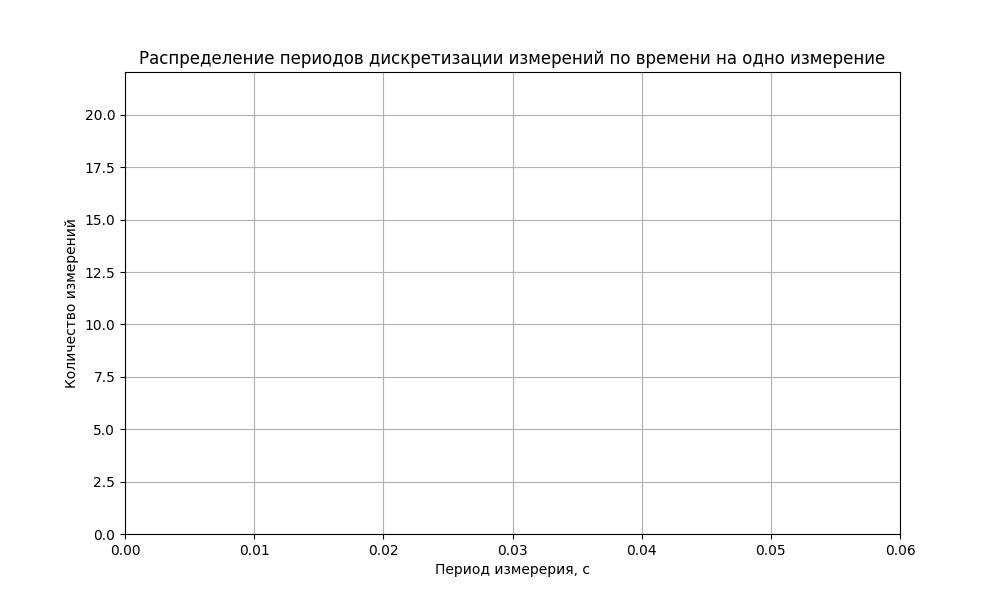
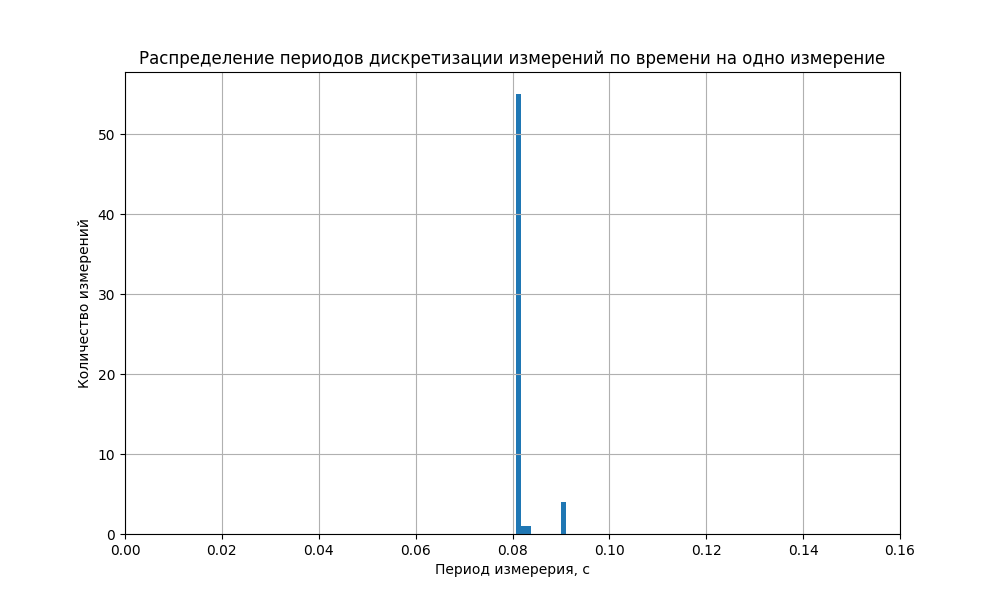
Final

diff --git a/get-adc/adc_plot.py b/get-adc/adc_plot.py
@@ -20,7 +20,7 @@ def plot_sampling_period_hist(time_values):
 
     plt.figure (figsize=(10, 6))
     plt.hist   (sampling_periods)
-    plt.xlim   (0, 0.06)
+    plt.xlim   (0, 0.16)
     plt.xlabel ("Период измерерия, c")
     plt.ylabel ("Количество измерений")
     plt.title  ("Распределение периодов дискретизации измерений по времени на одно измерение")

diff --git a/get-adc/r2r-sar.py b/get-adc/r2r-sar.py
@@ -8,7 +8,7 @@ if __name__ == "__main__":
 
     voltage_values = []
     time_values = []
-    duration = 3.0
+    duration = 5.0
 
     try:
         start_time = time.time()